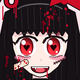
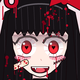
Scream and Run: make the jumpscare a little scarier
Small changes only; layout, colours, logo and tagline are unchanged.

- Manic stare: smaller irises floating in more white, pinprick heart
  pupils, faint red veins, smaller highlight and no glow.
- The bangs' shadow reaches down over the tops of her eyes.
- A thin tear of blood from her right eye.
- The background darkens toward the corners while the centre stays
  pink, so she stands out of the gloom.

The mod icon is cropped from the jumpscare, so it picks up the new eyes.

Claude-Session: https://claude.ai/code/session_01CcKgj7Gw3HsTaUunqbdMPy

Changed region(s): [[0.15, 0.425, 0.85, 0.925]]

diff --git a/projects/scream-and-run/tools/generate_placeholders.py b/projects/scream-and-run/tools/generate_placeholders.py
@@ -422,6 +422,14 @@ def jumpscare():
     _splatter(d, rng, 420, 820, 260, 160, [BLOOD_K, BLOOD_K_DARK, (220, 30, 60, 255)])
     _splatter(d, rng, 1500, 420, 160, 55, [BLOOD_K, BLOOD_K_DARK])
 
+    # darken toward the corners (the middle stays pink), so she stands out of the gloom
+    vig = Image.new("L", (W, H), 180)                     # corners fully dark...
+    vd = ImageDraw.Draw(vig)
+    for k in range(60):                                   # ...easing to clear in the middle
+        inset = k * 9
+        vd.ellipse([-260 + inset, -300 + inset, W + 260 - inset, H + 300 - inset], fill=int(180 * (1 - k / 60) ** 2))
+    img.paste(Image.new("RGBA", (W, H), (36, 0, 10, 255)), (0, 0), vig.filter(ImageFilter.GaussianBlur(40)))
+
     cx = 960
     # back hair
     _shape(img, lambda m: m.polygon([(cx - 330, 260), (cx - 420, 700), (cx - 470, 1080), (cx + 470, 1080),
@@ -483,15 +491,20 @@ def jumpscare():
         ed = ImageDraw.Draw(eye)
         ed.ellipse(white, fill=(255, 255, 255, 255))
         ed.ellipse([ex - 92, ey - 92, ex + 92, ey - 30], fill=(226, 218, 226, 255))   # lid shadow
-        for k in range(32):                                        # iris: dark top to bright bottom
-            t = k / 31
+        vein_rng = random.Random(ex)
+        for _ in range(9):                                         # faint red veins creeping in from the edge
+            a = vein_rng.uniform(0, math.tau)
+            x0, y0 = ex + math.cos(a) * 92, ey + math.sin(a) * 90
+            x1, y1 = ex + math.cos(a) * 62 + vein_rng.randint(-8, 8), ey + math.sin(a) * 60 + vein_rng.randint(-8, 8)
+            ed.line([(x0, y0), (x1, y1)], fill=(230, 120, 130, 255), width=3)
+        # a manic stare: smaller iris floating in more white
+        for k in range(28):                                        # iris: dark top to bright bottom
+            t = k / 27
             col = tuple(int(a + (b - a) * t) for a, b in zip((70, 0, 10), (255, 50, 64))) + (255,)
-            ed.ellipse([ex - 64 + k * 0.6, ey - 96 + k * 2.4, ex + 64 - k * 0.6, ey + 80], fill=col)
-        ed.ellipse([ex - 64, ey - 96, ex + 64, ey + 80], outline=(60, 0, 8, 255), width=5)
-        _heart(ed, ex, ey + 2, 30, (40, 0, 6, 255))                # yandere heart pupil
-        ed.ellipse([ex - 50, ey - 70, ex - 8, ey - 24], fill=(255, 255, 255, 255))     # main highlight
-        ed.ellipse([ex + 22, ey + 34, ex + 40, ey + 52], fill=(255, 255, 255, 255))
-        ed.arc([ex - 50, ey + 20, ex + 50, ey + 74], 20, 160, fill=(255, 140, 150, 255), width=6)  # glow
+            ed.ellipse([ex - 50 + k * 0.5, ey - 66 + k * 2.2, ex + 50 - k * 0.5, ey + 62], fill=col)
+        ed.ellipse([ex - 50, ey - 66, ex + 50, ey + 62], outline=(60, 0, 8, 255), width=5)
+        _heart(ed, ex, ey + 2, 17, (30, 0, 4, 255))                # pinprick heart pupil
+        ed.ellipse([ex - 36, ey - 46, ex - 14, ey - 24], fill=(255, 255, 255, 255))    # small highlight
         img.paste(eye, (0, 0), ImageChops.multiply(eye.getchannel("A"), eye_mask))
         # thick upper lash line: a filled crescent, flicked at the outer corner
         lash = [(ex - 100, ey - 40), (ex - 70, ey - 86), (ex - 20, ey - 104), (ex + 30, ey - 104),
@@ -502,6 +515,16 @@ def jumpscare():
         d.line([(ex - 86, ey + 74), (ex - 20, ey + 92), (ex + 40, ey + 88)] if side < 0 else
                [(ex - 40, ey + 88), (ex + 20, ey + 92), (ex + 86, ey + 74)], fill=LINE, width=5)   # lower lash
         d.line([(ex - side * 30, ey + 108), (ex + side * 60, ey + 100)], fill=(214, 160, 160, 255), width=3)  # eyebag
+
+    # the bangs' shadow reaches down over the top of her eyes
+    gloom = Image.new("RGBA", (W, H), (0, 0, 0, 0))
+    gd = ImageDraw.Draw(gloom)
+    for k in range(40):
+        gd.line([(cx - 260, 470 + k * 3), (cx + 260, 470 + k * 3)], fill=(60, 0, 20, int(120 * (1 - k / 40))), width=3)
+    img.paste(gloom, (0, 0), ImageChops.multiply(gloom.getchannel("A"), face_mask))
+    # a thin tear of blood from her right eye
+    d.line([(cx + 150, 676), (cx + 156, 720), (cx + 150, 770), (cx + 154, 812)], fill=BLOOD_K, width=7, joint="curve")
+    d.ellipse([cx + 144, 802, cx + 164, 826], fill=BLOOD_K)
 
     # tiny nose, then a smaller open grin with a fang and blood drool
     d.line([(cx + 6, 700), (cx + 14, 716)], fill=(214, 150, 150, 255), width=5)
